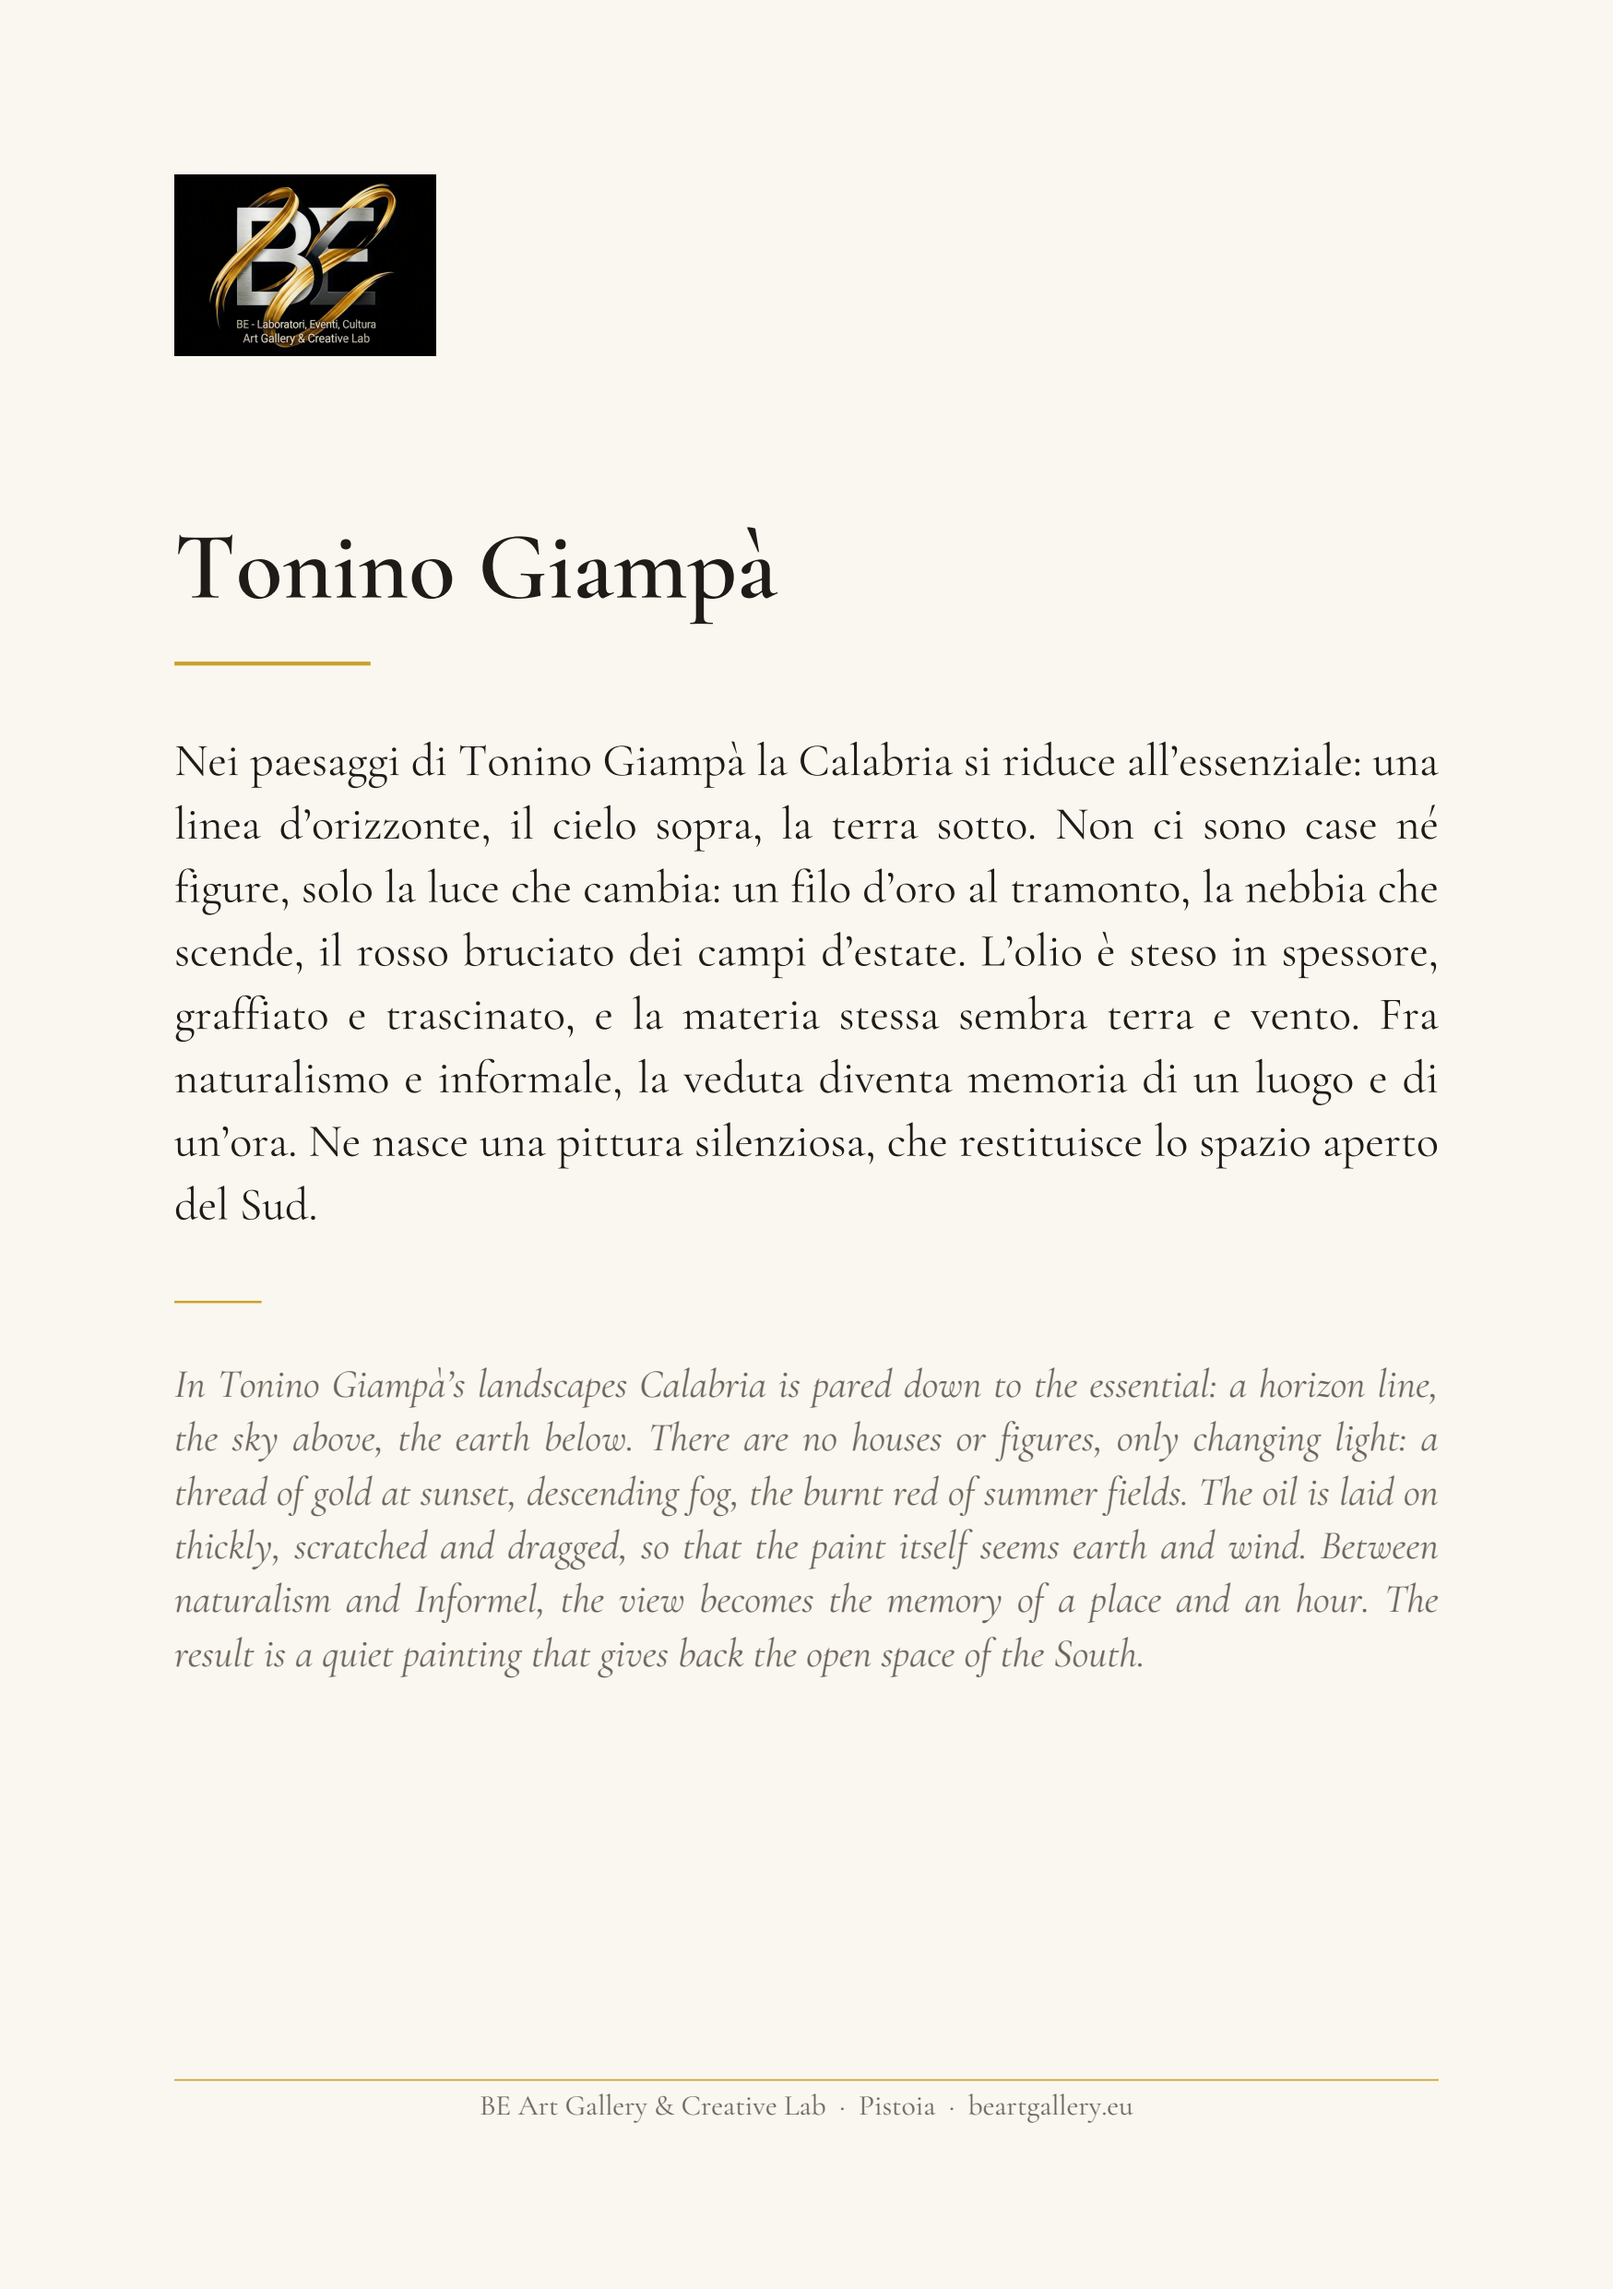
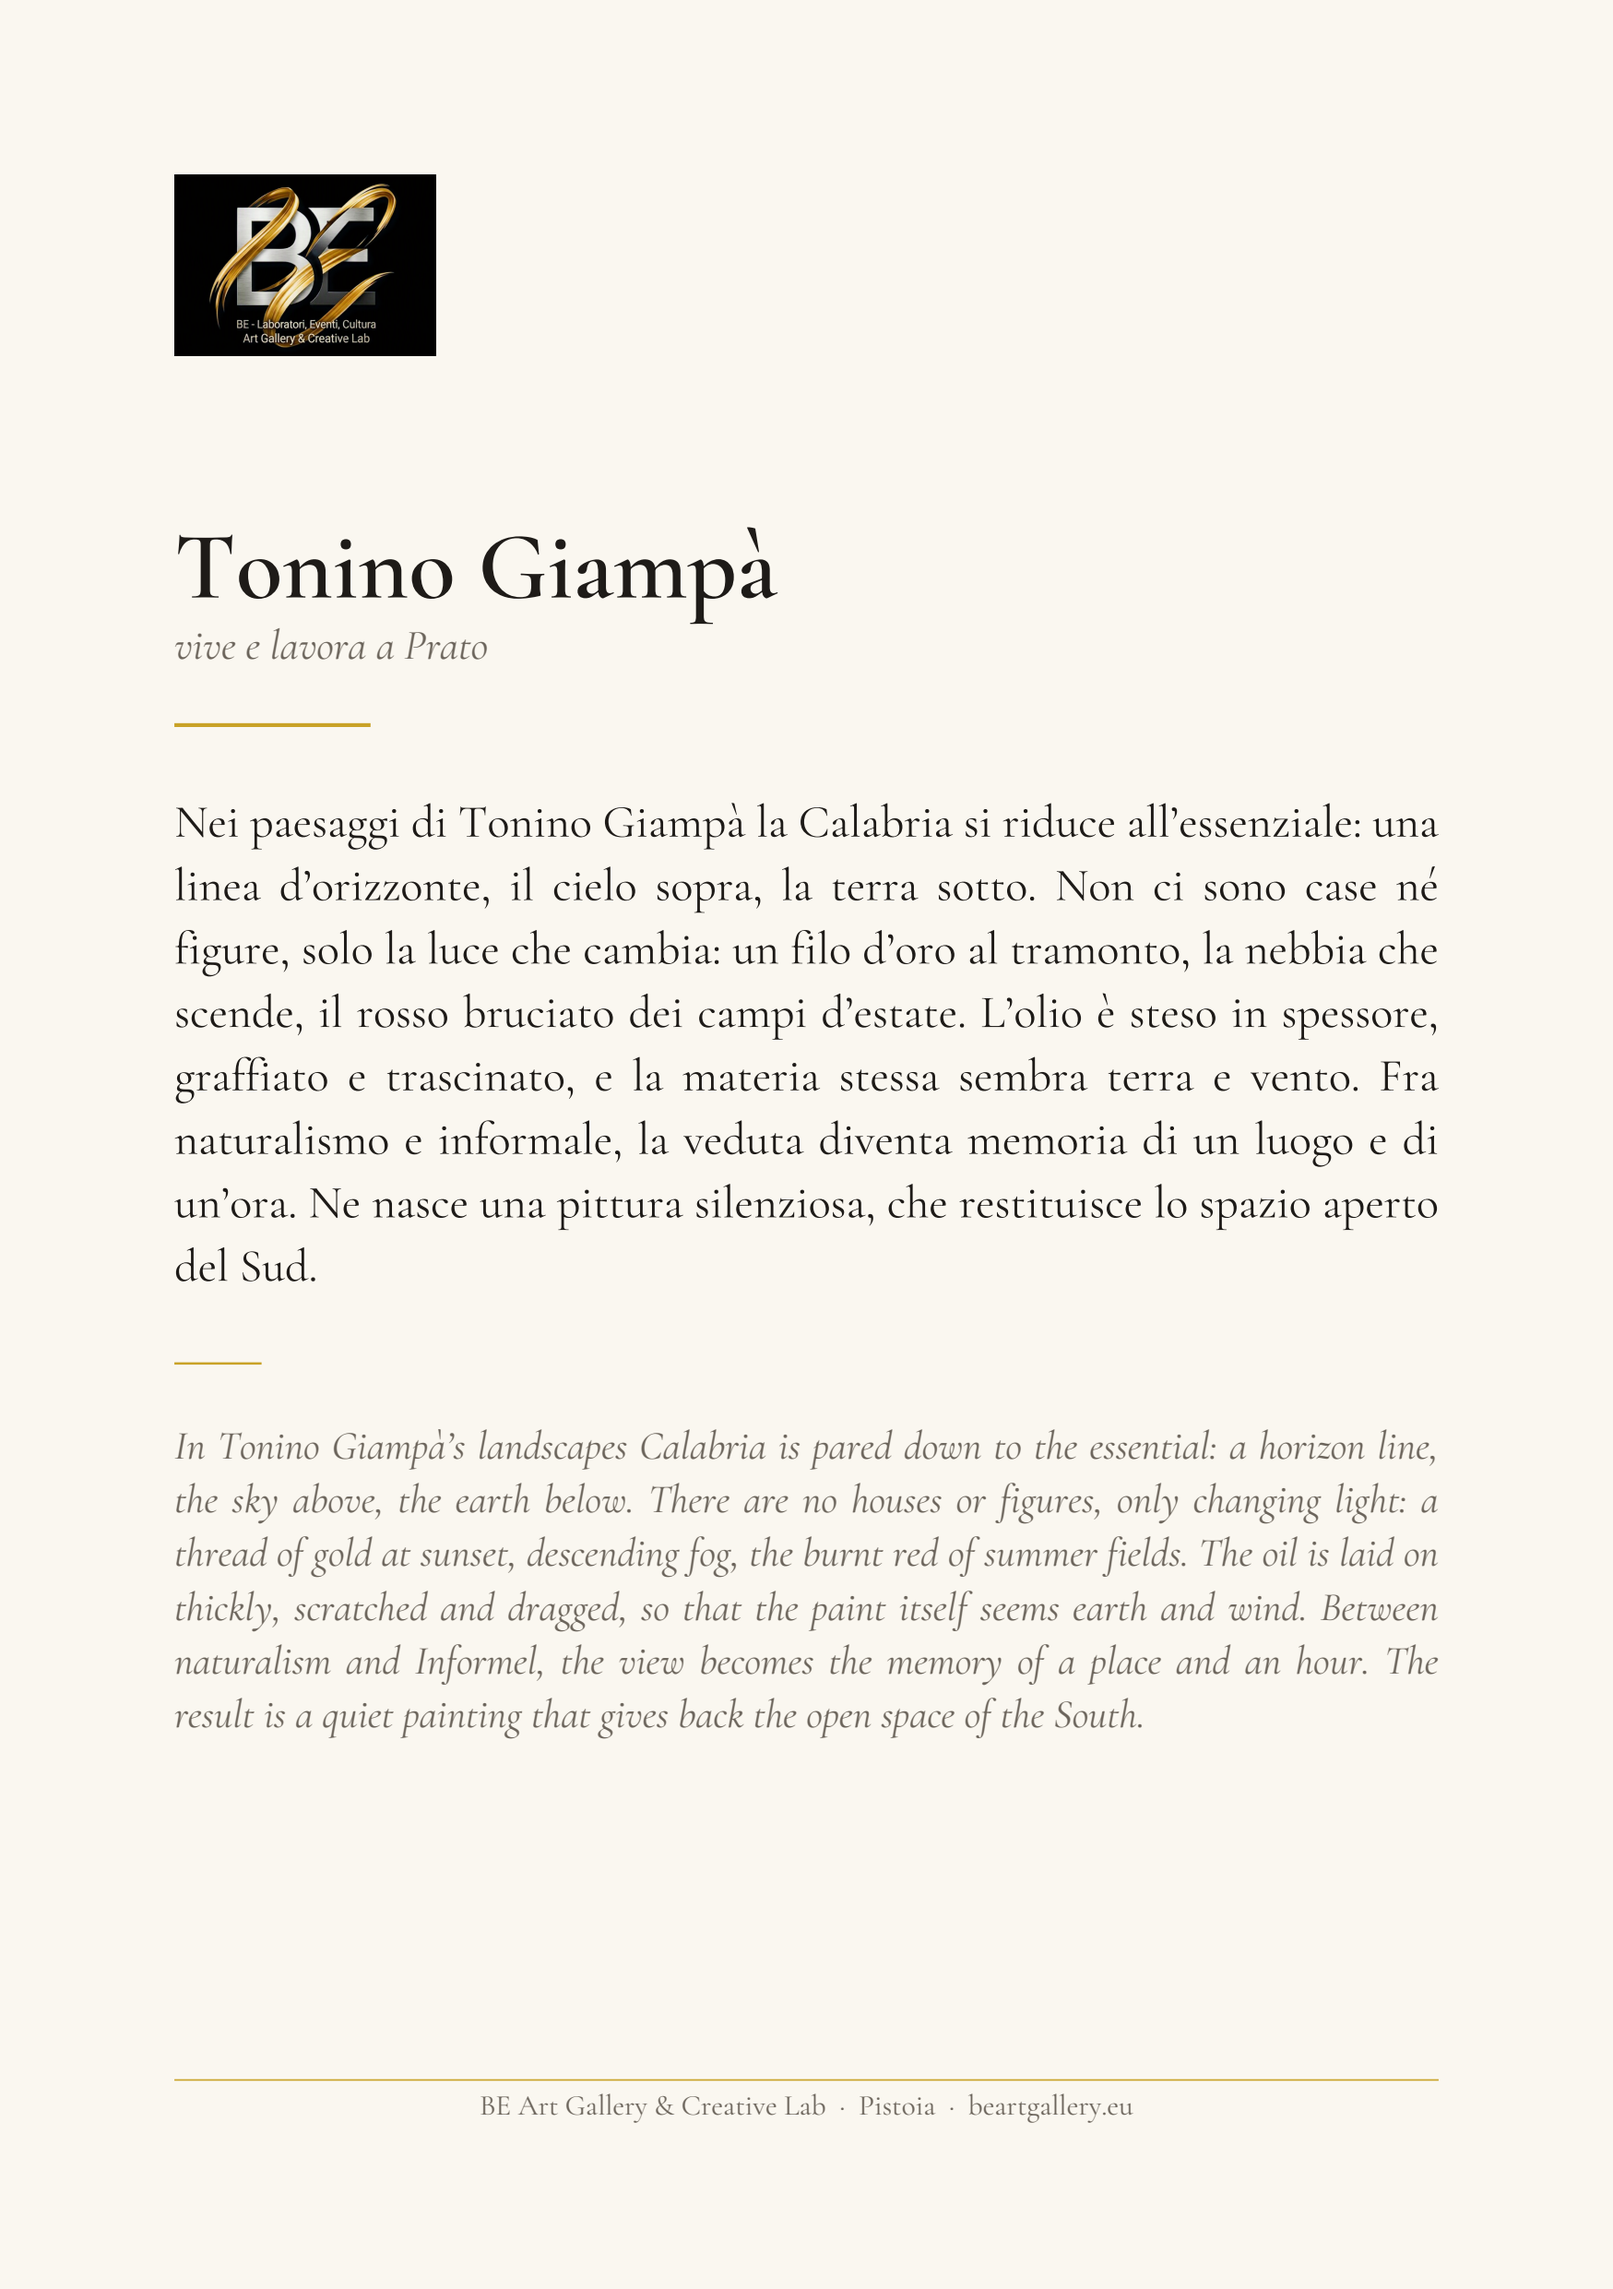
Aggiunge la città di Tonino Giampà
Imbrunire d'estate non è datata: il cartellino resta senza anno.

Claude-Session: https://claude.ai/code/session_0148bZgqQiCtdshijf84M1Qp

Changed region(s): [[0.0926, 0.2793, 0.8954, 0.5586], [0.0926, 0.5897, 0.8954, 0.7759]]

diff --git a/testi-critici/artisti/tonino-giampa/analisi.md b/testi-critici/artisti/tonino-giampa/analisi.md
@@ -6,7 +6,7 @@
 
 | | |
 |---|---|
-| **Vive e lavora** | *da confermare* — i paesaggi sono della sua Calabria |
+| **Vive e lavora** | Prato — i paesaggi sono della sua Calabria |
 | **Opere analizzate** | *Paesaggio*, 2026, olio su tela, 30 × 25 cm · *Imbrunire d'estate*, olio su tavola, 18 × 24 cm · *Paesaggio*, 2026, olio su tavola, 26 × 32 cm · *Nebbie*, 2026, olio su tela, 40 × 25 cm |
 | **Stesura** | 6 ottobre 2026 · v1 |
 
@@ -47,7 +47,7 @@
 
 **Cosa ho visto** — cielo grigio azzurro graffiato a spatola; a destra nuvole verdastre; all'orizzonte una fascia gialla intensa, unica luce calda; sotto la terra verde scura che sfuma in ocra verso il basso, densa e scavata.
 
-### *Imbrunire d'estate* — anno da confermare, olio su tavola, 18 × 24 cm
+### *Imbrunire d'estate* — senza data, olio su tavola, 18 × 24 cm
 
 **Italiano** — _236 caratteri_
 
@@ -109,5 +109,4 @@ costitutiva della ricerca, come indica Elena.
   pesare sull'artista invece di orientare
 
 ### Cosa resta aperto
-- **dove vive e lavora**
-- **l'anno di *Imbrunire d'estate***: la data accanto alla firma non si legge
+- niente. *Imbrunire d'estate* non è datata, nemmeno sul retro: il cartellino esce senza anno
